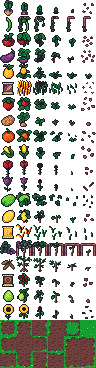
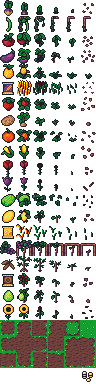
Render cash as stacks of coins.

diff --git a/src/game.scss b/src/game.scss
@@ -2,6 +2,8 @@ $plotColor: rgb(20, 160, 46);
 $fontColor: rgb(227, 230, 255);
 $tileWidth: 4.8rem;
 $tileHeight: 4.8rem;
+$imageWidth: 3.6rem;
+$imageHeight: 3.6rem;
 
 @mixin crop($name, $row) {
   @for $i from 1 through 5 {
@@ -29,7 +31,8 @@ $tileHeight: 4.8rem;
 html {
   font-weight: normal;
   font-size: 62.5%;
-  font-family: monospace;
+  font-family: sans-serif;
+  font-family: Goudy Old Style,Garamond,Big Caslon,Times New Roman,serif;
   background: $plotColor;
   color: $fontColor;
 }
@@ -61,9 +64,18 @@ a, a:visited {
 
 /* FARM */
 .tile {
+  display: inline-block;
   width: $tileHeight;
   height: $tileHeight;
-  background-size: (6 * $tileWidth) (23 * $tileHeight);
+  background-size: (6 * $tileWidth) (24 * $tileHeight);
+  background-image: url('../img/tiles.png');
+}
+
+.image {
+  display: inline-block;
+  width: $imageWidth;
+  height: $imageHeight;
+  background-size: (6 * $imageWidth) (24 * $imageHeight);
   background-image: url('../img/tiles.png');
 }
 
@@ -175,14 +187,34 @@ a, a:visited {
 @include crop('avocado', 18);
 @include crop('sunflower', 19);
 
-.plot.grass {
-  background-position-x: (-5 * $tileWidth);
-  background-position-y: (20 * $tileHeight);
-};
+/* STATS */
+.stats {
+  justify-content: space-between;
+  align-items: center;
+}
 
 /* STORE */
 .store {
   flex-grow: 1;
+}
+.cash {
+  display: flex;
+  flex-direction: row;
+  align-items: center;
+
+  .value {
+    font-size: 1.6rem;
+    margin-right: 0.4rem;
+    color: rgb(59, 23, 37);
+    text-shadow: 0.05rem 0.05rem 0.1rem rgb(254, 243, 192, .5);
+    text-shadow: 0.05rem 0.05rem 0.1rem rgb(18, 32, 32);
+    font-family: 'Georgia', 'Times', 'Times New Roman', serif;
+    font-family: Goudy Old Style,Garamond,Big Caslon,Times New Roman,serif;
+  }
+}
+.image.cash {
+  background-position-x: (-5 * $imageWidth);
+  background-position-y: (-23 * $imageHeight);
 }
 
 /* MARKET */
@@ -261,6 +293,6 @@ abbr[title="and"] {
 
 @media screen and (min-width:40em) {
   html {
-    font-size: 100%;
+    font-size: 150%;
   }
 }

diff --git a/src/renderer.js b/src/renderer.js
@@ -11,8 +11,12 @@ const renderTime = (farm) => {
   return `Day ${day} of <span class="capitalize">${season}</span>`;
 };
 
-const renderCash = (farm) => {
-  return `$${farm.cash}`;
+const renderCash = (value) => {
+  let html = '';
+  html += '<div class="cash">';
+  html += `<span class="value">${value}</span><span class="image cash"></span>`;
+  html += '</div>';
+  return html;
 };
 
 const getFarmPlotClasses = (farm, row, col) =>
@@ -71,7 +75,7 @@ const renderStore = (farm) => {
   Rules.store(farm).forEach((crop) => {
     html += `<div class="item row" data-crop="${crop.type}">`;
     html += `<span class="tile picture ${crop.type}"></span><span class="capitalize">${crop.type}</span>`;
-    html += `<span class="price">${crop.prices.seed}</span>`;
+    html += renderCash(crop.prices.seed);
     html += '</div>';
   });
 
@@ -149,7 +153,7 @@ Renderer.render = (farm, tool) => {
   renderTool(tool);
   renderInventory(farm);
   renderIfChanged('#time', renderTime(farm));
-  renderIfChanged('#cash', renderCash(farm));
+  renderIfChanged('#cash', renderCash(farm.cash));
   renderIfChanged('#farm', renderFarm(farm, tool));
   renderIfChanged('#store', renderStore(farm));
   renderIfChanged('#market', renderMarket(farm));

diff --git a/src/index.html b/src/index.html
@@ -9,8 +9,10 @@
 
   <body>
     <div class="world col">
-      <div id="time"></div>
-      <div id="cash"></div>
+      <div class="stats row">
+        <div id="time"></div>
+        <div id="cash"></div>
+      </div>
       <div class="farm col" id="farm"></div>
       <div class="store col" id="store"></div>
       <div class="market col" id="market"></div>
